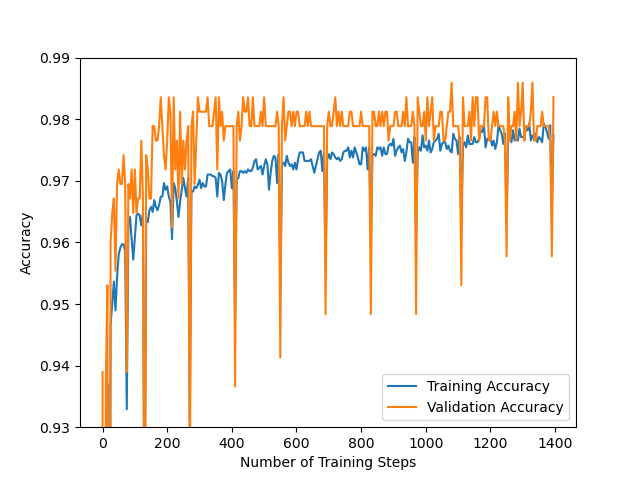
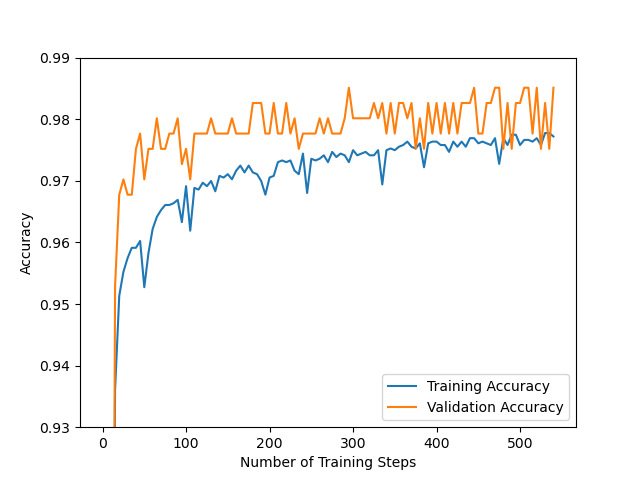
Maybe done with task 2d

diff --git a/assignment1/trainer.py b/assignment1/trainer.py
@@ -87,8 +87,18 @@ class BaseTrainer:
                     train_history["accuracy"][global_step] = accuracy_train
                     val_history["loss"][global_step] = val_loss
                     val_history["accuracy"][global_step] = accuracy_val
-
-                    # TODO (Task 2d): Implement early stopping here.
-                    # You can access the validation loss in val_history["loss"]
+                    # TODO: Dont know if this is the correct way of implementing 
+                    # "validation loss does not improve after passing through 20% of the training dataset 10 times"
+                    # What does does not improve mean?
+                    if len(val_history["loss"]) >= 10:
+                        val_did_improve = False
+                        keys = [*val_history["loss"].keys()][-10:]
+                        for i in range(1,len(keys)):
+                           if val_history["loss"][keys[0]] - val_history["loss"][keys[i]] > 0:
+                                val_did_improve = True
+                                break
+                        if not val_did_improve:
+                            return train_history, val_history
+                    
                 global_step += 1
         return train_history, val_history

diff --git a/assignment1/task2.py b/assignment1/task2.py
@@ -69,7 +69,7 @@ class LogisticTrainer(BaseTrainer):
 
 if __name__ == "__main__":
     # hyperparameters DO NOT CHANGE IF NOT SPECIFIED IN ASSIGNMENT TEXT
-    num_epochs = 50
+    num_epochs = 500
     learning_rate = 0.05
     batch_size = 128
     shuffle_dataset = False
